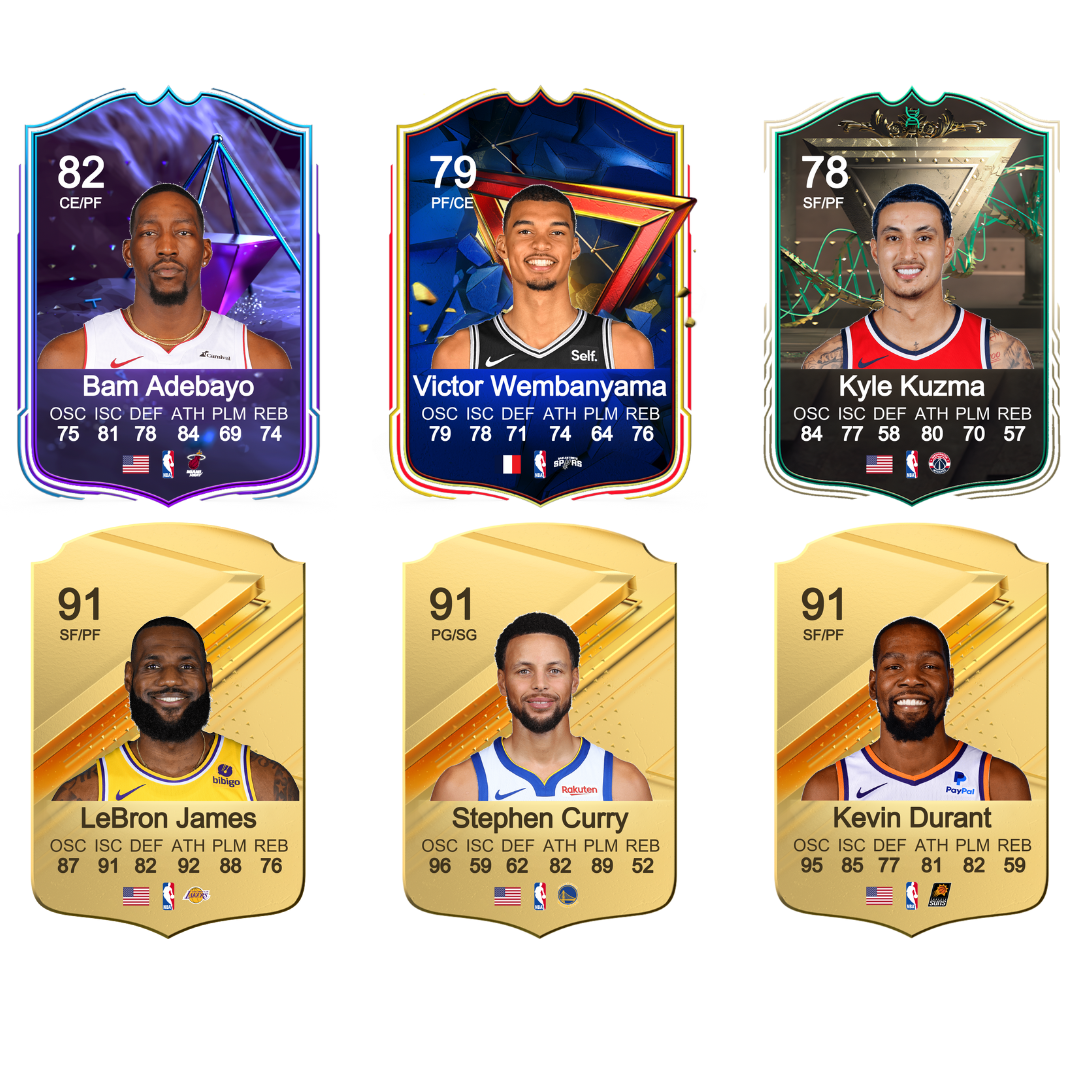
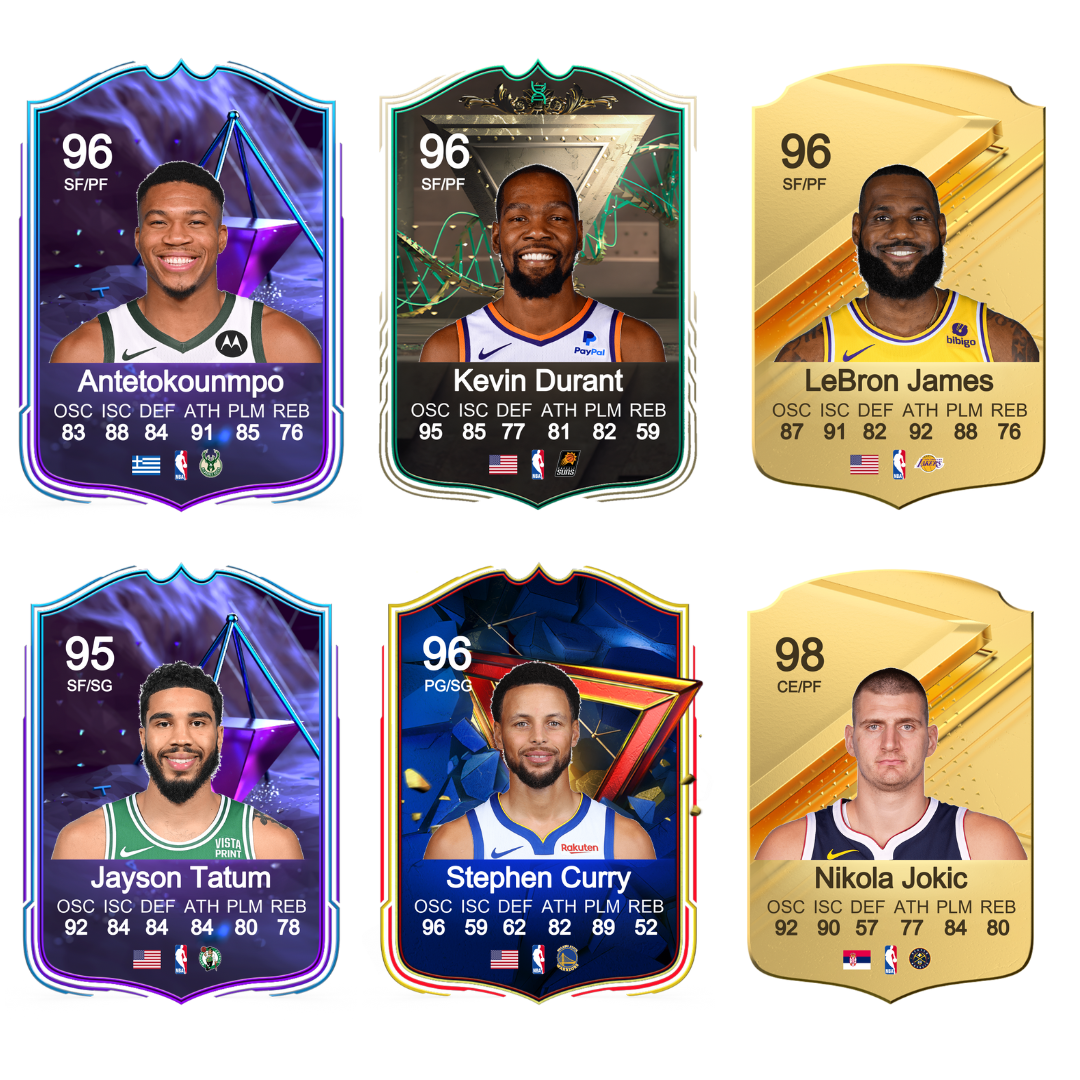
Arrumando alguns detalhes

diff --git a/functions/make_cards.py b/functions/make_cards.py
@@ -124,5 +124,18 @@ def make_cards(index:int, text_color_rgb:tuple, card_version:str, to_save:bool=F
     return None
 
 if __name__ == "__main__":
+
     for indice in range(0, 100):
-        make_cards(indice, text_color, "card_gold", True, ".\cartas\cartas_ouro")
+        make_cards(indice, text_color, "card_gold", False, ".\cartas\cartas_ouro")
+
+    lista_de_exemplos = [0, 2, 3, 4, 5, 7]
+    dict_de_cartas = {"card_gold":text_color, 
+                        "card_purple":(255,255,255),
+                        "card_default":(255,255,255), 
+                        "card_centurion":(255,255,255)}
+
+    for indice in range(0, 6):
+        chave = indice
+        if indice >= 4:
+            indice = indice - 4
+        make_cards(lista_de_exemplos[chave], list(dict_de_cartas.values())[indice], list(dict_de_cartas.keys())[indice], True, ".\cartas\exemplos")
